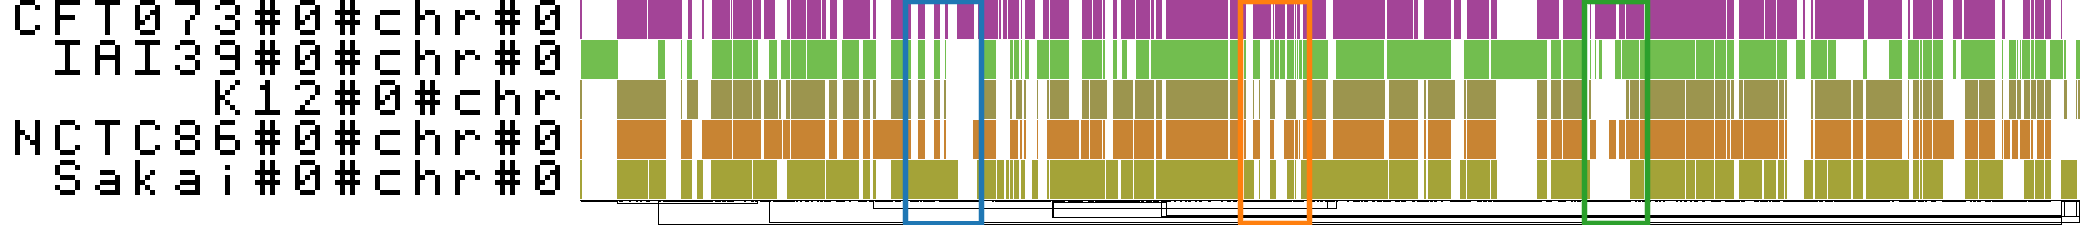
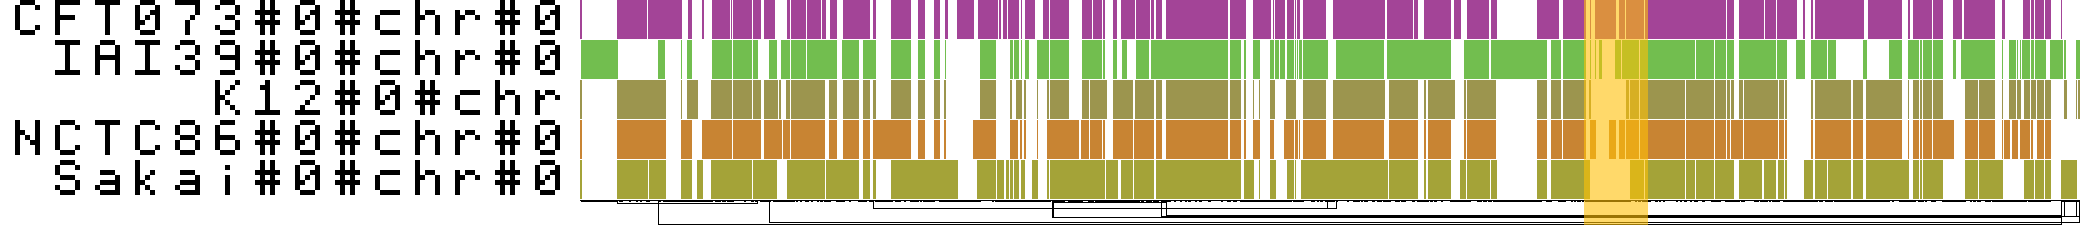
fix(website): rebuild the Minigraph-Cactus variant and correspondence figures
The variant figure's window was the problem, not its rendering. At
chr:995,000-1,015,000 NCTC86 is reference at 574 of 582 calls (a flat grey
row), no genotype is missing at all (so the legend advertised a "No call"
yellow that appeared nowhere), and every call in a 6 kb stretch sits inside one
top-level bubble, which the sub-100bp filter drops and leaves a hole that reads
as a rendering fault. Rescoring 20 kb windows on "every strain carries alt
calls, some strain carries no-calls, no empty 2 kb sub-window" picks
chr:2,200,000-2,220,000: IAI39 goes no-call over the last 6 kb and its MAF row
below drops out across the same stretch, so the figure shows one strain leaving
the alignment twice over. NCTC86 being near-empty is real, not a bug — it is
alt at 7.3% of sites genome-wide against CFT073's 63%, the strain closest to
K-12.

The redundant raw-calls lane is gone (at this density it is a solid gold wall),
the filter moved to alleleLength — the big records here are INSERTIONS, which
end - start scores as 1 — and the lane carries forceLoad, since 1,341 records
over 1,000 px is past the one-feature-per-pixel gate.

The odgi-viz correspondence pair drops from three outlined boxes to one
translucent gold band, drawn in both halves from the same coordinates and in
the same paint. Gold rather than blue because the two images have opposite
backgrounds — saturated rows on white against the solid dark blue of the depth
track — and blue vanished into the second.
[…]

diff --git a/website/scripts/specs/pangenome_cactus.ts b/website/scripts/specs/pangenome_cactus.ts
@@ -56,73 +56,60 @@ export const pangenomeCactusSpecs: ScreenshotSpec[] = [
     settleMs: 15000,
   },
 
-  // Projection 2: the graph's pangenome variants as a multi-sample matrix, with
-  // the MAF alignment stacked below as the base-level view the variants were
-  // decomposed from, and the K12 gene lane above for context.
+  // Projection 2: the graph's pangenome variants as a multi-sample genotype
+  // lane, with the MAF alignment stacked below as the base-level view the
+  // variants were decomposed from, and the K12 gene lane above for context.
   {
     mode: 'url',
     name: 'pangenome_cactus/variant_matrix',
     url: sessionSpec(CONFIG, {
-      // the same VCF a second time as a plain variant lane (reviewer: show the
-      // raw calls too). A view holds a track once, so the raw lane needs its own
-      // trackId; the adapter is absolute because a session track has no config
-      // baseUri to resolve against.
-      sessionTracks: [
-        {
-          type: 'VariantTrack',
-          trackId: 'ecoli_cactus_variants_raw',
-          name: 'MC graph: pangenome variants (raw calls)',
-          assemblyNames: ['K12'],
-          adapter: {
-            type: 'VcfTabixAdapter',
-            uri: 'https://jbrowse.org/demos/ecoli_pangenome/ecoli_cactus.vcf.gz',
-          },
-        },
-      ],
       views: [
         {
           type: 'LinearGenomeView',
           assembly: 'K12',
-          loc: 'chr:995,000-1,015,000',
+          // Scored from the VCF, not chosen by eye: 20 kb windows ranked on
+          // "every strain carries alt calls, some strain carries no-calls, no
+          // empty 2 kb sub-window" put chr:2,200,000-2,220,000 first — 1,337
+          // sub-100bp records, 21-60% alt in all four strains, and IAI39
+          // no-call over the last 6 kb, where the MAF row below it drops out
+          // too. The old window (995,000-1,015,000) had none of that: NCTC86
+          // was reference at 574 of 582 calls, nothing was a no-call, and 6 kb
+          // of it held only one top-level bubble, so the filtered lane went
+          // blank across it and read as a rendering hole.
+          loc: 'chr:2,200,000-2,220,000',
           tracks: [
             { trackId: 'K12_genes', type: 'LinearBasicDisplay' },
             {
-              // Unfiltered, so the nested top-level bubbles the genotype lane
-              // below filters out are still visible — as what they are, a few
-              // wide records, rather than as a wall of red genotype cells.
-              trackId: 'ecoli_cactus_variants_raw',
-              type: 'LinearVariantDisplay',
-              height: 70,
-            },
-            {
               // NOT the matrix display: the matrix packs every variant into an
-              // equal-width column, which with only three strains spends the
-              // whole lane on three fat bands and throws away where the variants
+              // equal-width column, which with only four strains spends the
+              // whole lane on four fat bands and throws away where the variants
               // actually are. This display keeps them on genomic coordinates, so
               // they line up with the gene lane above and the MAF below.
               trackId: 'ecoli_cactus_variants',
               type: 'LinearMultiSampleVariantDisplay',
-              height: 160,
-              // Cactus's VCF is nested like pggb's: chr:997,582 is a 7,086 bp
-              // top-level bubble carrying a different allele in each of the
-              // three strains (GT 1/2/3), so two of them are "other alt" and it
-              // painted 7 kb of flat dark red over the SNPs underneath. That one
-              // record IS the red block the review flagged. Filtering the
-              // genotype lane to <100 bp leaves the decomposed SNP layer, and
-              // the raw lane above still shows the bubble.
-              jexlFilters: [
-                "jexl:get(feature,'end')-get(feature,'start') < 100",
-              ],
+              height: 200,
+              // 1,341 records over 1,000 px trips the "too many features"
+              // gate, which guards against huge downloads; this window is a
+              // 30 kB tabix read.
+              forceLoad: true,
+              // Cactus's VCF is nested like pggb's: alongside the decomposed
+              // SNPs it emits top-level bubbles carrying a different allele per
+              // strain, so most of their genotypes are "other alt" and one
+              // record paints kilobases of flat dark red over the SNPs
+              // underneath. `alleleLength` rather than end-start because the
+              // four big records here are INSERTIONS (the largest 47 kb of alt
+              // against 1 bp of reference), which end-start scores as 1.
+              jexlFilters: ['jexl:alleleLength(feature) < 100'],
             },
             { trackId: 'ecoli_cactus_maf', type: 'LinearMafDisplay' },
           ],
         },
       ],
     }),
-    readyText: '1,000,000',
+    readyText: '2,204,000',
     readyTimeout: 90000,
     viewportWidth: 1000,
-    viewportHeight: 820,
+    viewportHeight: 760,
     settleMs: 15000,
     hideTooltip: true,
     actions: [
@@ -163,18 +150,23 @@ export const pangenomeCactusSpecs: ScreenshotSpec[] = [
     ],
   },
 
-  // The JBrowse half of the odgi-viz correspondence pair. Same three loci the
-  // banded raster (pangenome_cactus/graph.png) boxes, in the same three colors,
-  // so a reader can carry a box from one figure to the other.
+  // The JBrowse half of the odgi-viz correspondence pair: the same locus the
+  // banded raster (pangenome_cactus/graph.png) shades, in the same paint, so a
+  // reader can carry the band from one figure to the other. It was three loci in
+  // three colors, which is three comparisons to make where one carries the whole
+  // point.
   //
-  // The K12 coordinates are pinned to the pinned graph (fixed RefSeq accessions
-  // + pinned cactus image, see build_ecoli_pangenome_cactus.sh), and were picked
-  // by walking the graph's own K12 path: each 100kb K12 window was scored by how
-  // much PANGENOME sequence it spans (the graph's node order is monotonic along
-  // K12, verified), and these are the three highest-scoring well-separated
-  // windows. Each is 2.15% of the K12 axis but 4.4-6.2% of the graph's, which is
-  // the entire point of the pair — same locus, visibly different width, because
-  // one axis counts K12 bases and the other counts pangenome bases.
+  // The coordinates are pinned to the pinned graph (fixed RefSeq accessions +
+  // pinned cactus image, see build_ecoli_pangenome_cactus.sh) and were picked by
+  // walking the graph's own K12 path: chr:1,000,000-1,100,000 is the 100 kb K12
+  // window spanning the most PANGENOME sequence, 466 kb of it. That is the whole
+  // point of the pair — 2.2% of the K12 axis, 5.1% of the graph's, same locus,
+  // because one axis counts K12 bases and the other counts pangenome bases.
+  //
+  // Depth is the right partner track precisely because it CANNOT show the
+  // expansion: it counts paths over K12's own nodes, and the 366 kb the other
+  // strains carry through this locus is not on any of them. That gap is what the
+  // graph axis is for.
   {
     mode: 'url',
     name: 'pangenome_cactus/graph_correspondence',
@@ -185,26 +177,17 @@ export const pangenomeCactusSpecs: ScreenshotSpec[] = [
           assembly: 'K12',
           loc: 'chr:1-4,641,652',
           highlight: [
-            // explicit alpha: getHighlightColor uses a user-supplied color
-            // AS-IS, so a bare hex paints an opaque bar over the depth track it
-            // is meant to point at
+            // Gold, and explicitly alpha'd: getHighlightColor uses a supplied
+            // color AS-IS, so a bare hex paints an opaque bar over the depth
+            // track it is meant to point at. Gold because the same wash has to
+            // read over two opposite backgrounds — this track's solid dark blue
+            // and the raster's saturated rows on white — and blue vanished into
+            // the first of them.
             {
               refName: 'chr',
               start: 1000000,
               end: 1100000,
-              color: 'rgba(31,119,180,0.40)',
-            },
-            {
-              refName: 'chr',
-              start: 2040000,
-              end: 2140000,
-              color: 'rgba(255,127,14,0.40)',
-            },
-            {
-              refName: 'chr',
-              start: 3100000,
-              end: 3200000,
-              color: 'rgba(44,160,44,0.40)',
+              color: 'rgba(255,193,7,0.60)',
             },
           ],
           tracks: [

diff --git a/website/docs/tutorials/pangenome_cactus.md b/website/docs/tutorials/pangenome_cactus.md
@@ -170,7 +170,7 @@ on K12 and pick the matrix display (one column per variant, one row per sample):
 }
 ```
 
-<Figure caption="The Minigraph-Cactus graph's pangenome variants as a multi-sample matrix on K12, with the MAF alignment stacked below and the K12 gene lane above. Each matrix column is one variant vg deconstruct called against K12, each row one of the other four strains, each cell that strain's genotype (see the legend)." src="/img/pangenome_cactus/variant_matrix.png" />
+<Figure caption="The graph's pangenome variants on K12, one row per non-reference strain and one column per variant vg deconstruct called, with the MAF alignment below and the K12 gene lane above. IAI39 goes no-call (yellow) over the last 6 kb, and the MAF row underneath it drops out across the same stretch: that is one strain leaving the alignment, seen twice." src="/img/pangenome_cactus/variant_matrix.png" />
 
 The [multi-sample variant track guide](/docs/user_guides/multivariant_track)
 covers the matrix versus the per-position display and clustering samples by
@@ -276,37 +276,38 @@ genome coordinate. The
 explains that trade-off in full; it applies identically here, because both
 builders produce the same kind of graph and the same odgi renders it.
 
-<Figure caption="The five-strain Minigraph-Cactus graph drawn by odgi viz: one row per strain, colored where that strain traverses the graph and white where it does not. The horizontal axis is graph node order, not K12 position, so nothing lines up with a gene or coordinate. The three boxes mark loci carried over to the JBrowse figure below." src="/img/pangenome_cactus/graph.png" />
+<Figure caption="The five-strain Minigraph-Cactus graph drawn by odgi viz: one row per strain, colored where that strain traverses the graph and white where it does not. The horizontal axis is graph node order, not K12 position, so nothing lines up with a gene or coordinate. The gold band marks the locus carried over to the JBrowse figure below." src="/img/pangenome_cactus/graph.png" />
 
-The two axes are easiest to tell apart by putting the same loci on both. The
-three boxes above and the three bands below are the same three 100 kb stretches
-of K12, in the same three colors:
+The two axes are easiest to tell apart by putting the same locus on both. The
+gold band above and the gold band below are the same 100 kb of K12,
+`chr:1,000,000-1,100,000`:
 
-<Figure caption="The same three loci on K12's coordinates, over the pangenome depth track. Each band is 100 kb (2.15% of the K12 axis) but the matching box above spans 4.4-6.2% of the graph axis, because the graph counts the other strains' accessory sequence through the same locus as well." src="/img/pangenome_cactus/graph_correspondence.png" />
+<Figure caption="The same locus on K12's coordinates, over the pangenome depth track. The band is 100 kb, 2.2% of the K12 axis, but the matching band above spans 5.1% of the graph axis, because the graph counts the other strains' accessory sequence through the same locus as well." src="/img/pangenome_cactus/graph_correspondence.png" />
 
-Every box is wider than its band, by 2 to 3 times. That difference is the whole
+The band is wider on the graph axis, by 2.4 times. That difference is the whole
 distinction: the graph axis counts pangenome bases, so a locus where the other
 strains carry sequence K12 lacks takes up more of it, while the JBrowse axis
-counts K12 bases and holds every locus to its reference width. The boxed loci
-are the three where that gap is largest, which is why each one also sits over a
-dip in the depth track.
+counts K12 bases and holds every locus to its reference width. This is the 100
+kb window where that gap is largest, which is also why it sits over a dip in the
+depth track.
 
-## Opening a boxed locus in a multi-way synteny view
+The mapping is not eyeballed. Node ids in a Cactus graph run `1..N` in node
+order, so a node's pangenome offset is the cumulative length of every lower id,
+and walking K12's own `P` line turns a K12 offset into a node and then into a
+pangenome offset. `build_ecoli_pangenome_cactus.sh` does that walk and writes
+the pixel span it implies, so both bands come from the same arithmetic.
+
+## Opening the banded locus in a multi-way synteny view
 
 The depth track says a locus is accessory and the graph raster says it is wide,
 but neither says _what_ is there. The synteny projection does: stack the five
-strains as above and zoom every row to that locus.
-
-| Box    | K12 window                | What the graph is counting                                                           |
-| ------ | ------------------------- | ------------------------------------------------------------------------------------ |
-| blue   | `chr:1,000,000-1,100,000` | Sakai's 66 kb stx2 prophage, plus an 84 kb second Sakai-only stretch                 |
-| orange | `chr:2,040,000-2,140,000` | a 33 kb K12 stretch none of the three carry, and a 171 kb CFT073-only insert         |
-| green  | `chr:3,100,000-3,200,000` | one breakpoint, three different inserts: 128 kb in CFT073, 84 kb NCTC86, 23 kb Sakai |
+strains as above and zoom every row to that locus. In `chr:1,000,000-1,100,000`
+it is Sakai's 66 kb stx2 prophage plus a second 84 kb Sakai-only stretch.
 
 Each row needs its own window, because the same locus is at a different
 coordinate (and a different length) in each strain. Read them off the synteny
-PAF rather than guessing: for the blue box the K12 window's end points fall in
-halSynteny blocks that place it at Sakai `chr:1,128,000-1,459,000`, CFT073
+PAF rather than guessing: the K12 window's end points fall in halSynteny blocks
+that place it at Sakai `chr:1,128,000-1,459,000`, CFT073
 `chr:1,044,000-1,243,500`, NCTC86 `chr:1,184,000-1,325,000`, and IAI39
 `chr:2,163,000-2,255,000`. IAI39 is the one on the minus strand, so its is the
 ribbon that crosses. The interactive equivalent is to navigate the K12 row, then
@@ -319,7 +320,7 @@ and 92 kb in IAI39, the same 1 to 3 times spread the graph axis showed.
 
 Stacked five deep the ribbons shear rather than run horizontal, which is the
 result but is also most of what a reader can take from the picture. For what is
-actually inside the blue box, the
+actually inside the band, the
 [all-vs-all tutorial's stx2 figure](/docs/tutorials/allvsall_synteny) opens the
 same locus two rows deep with the gene lane on, where the prophage reads as
 genes rather than as a gap between ribbons.
